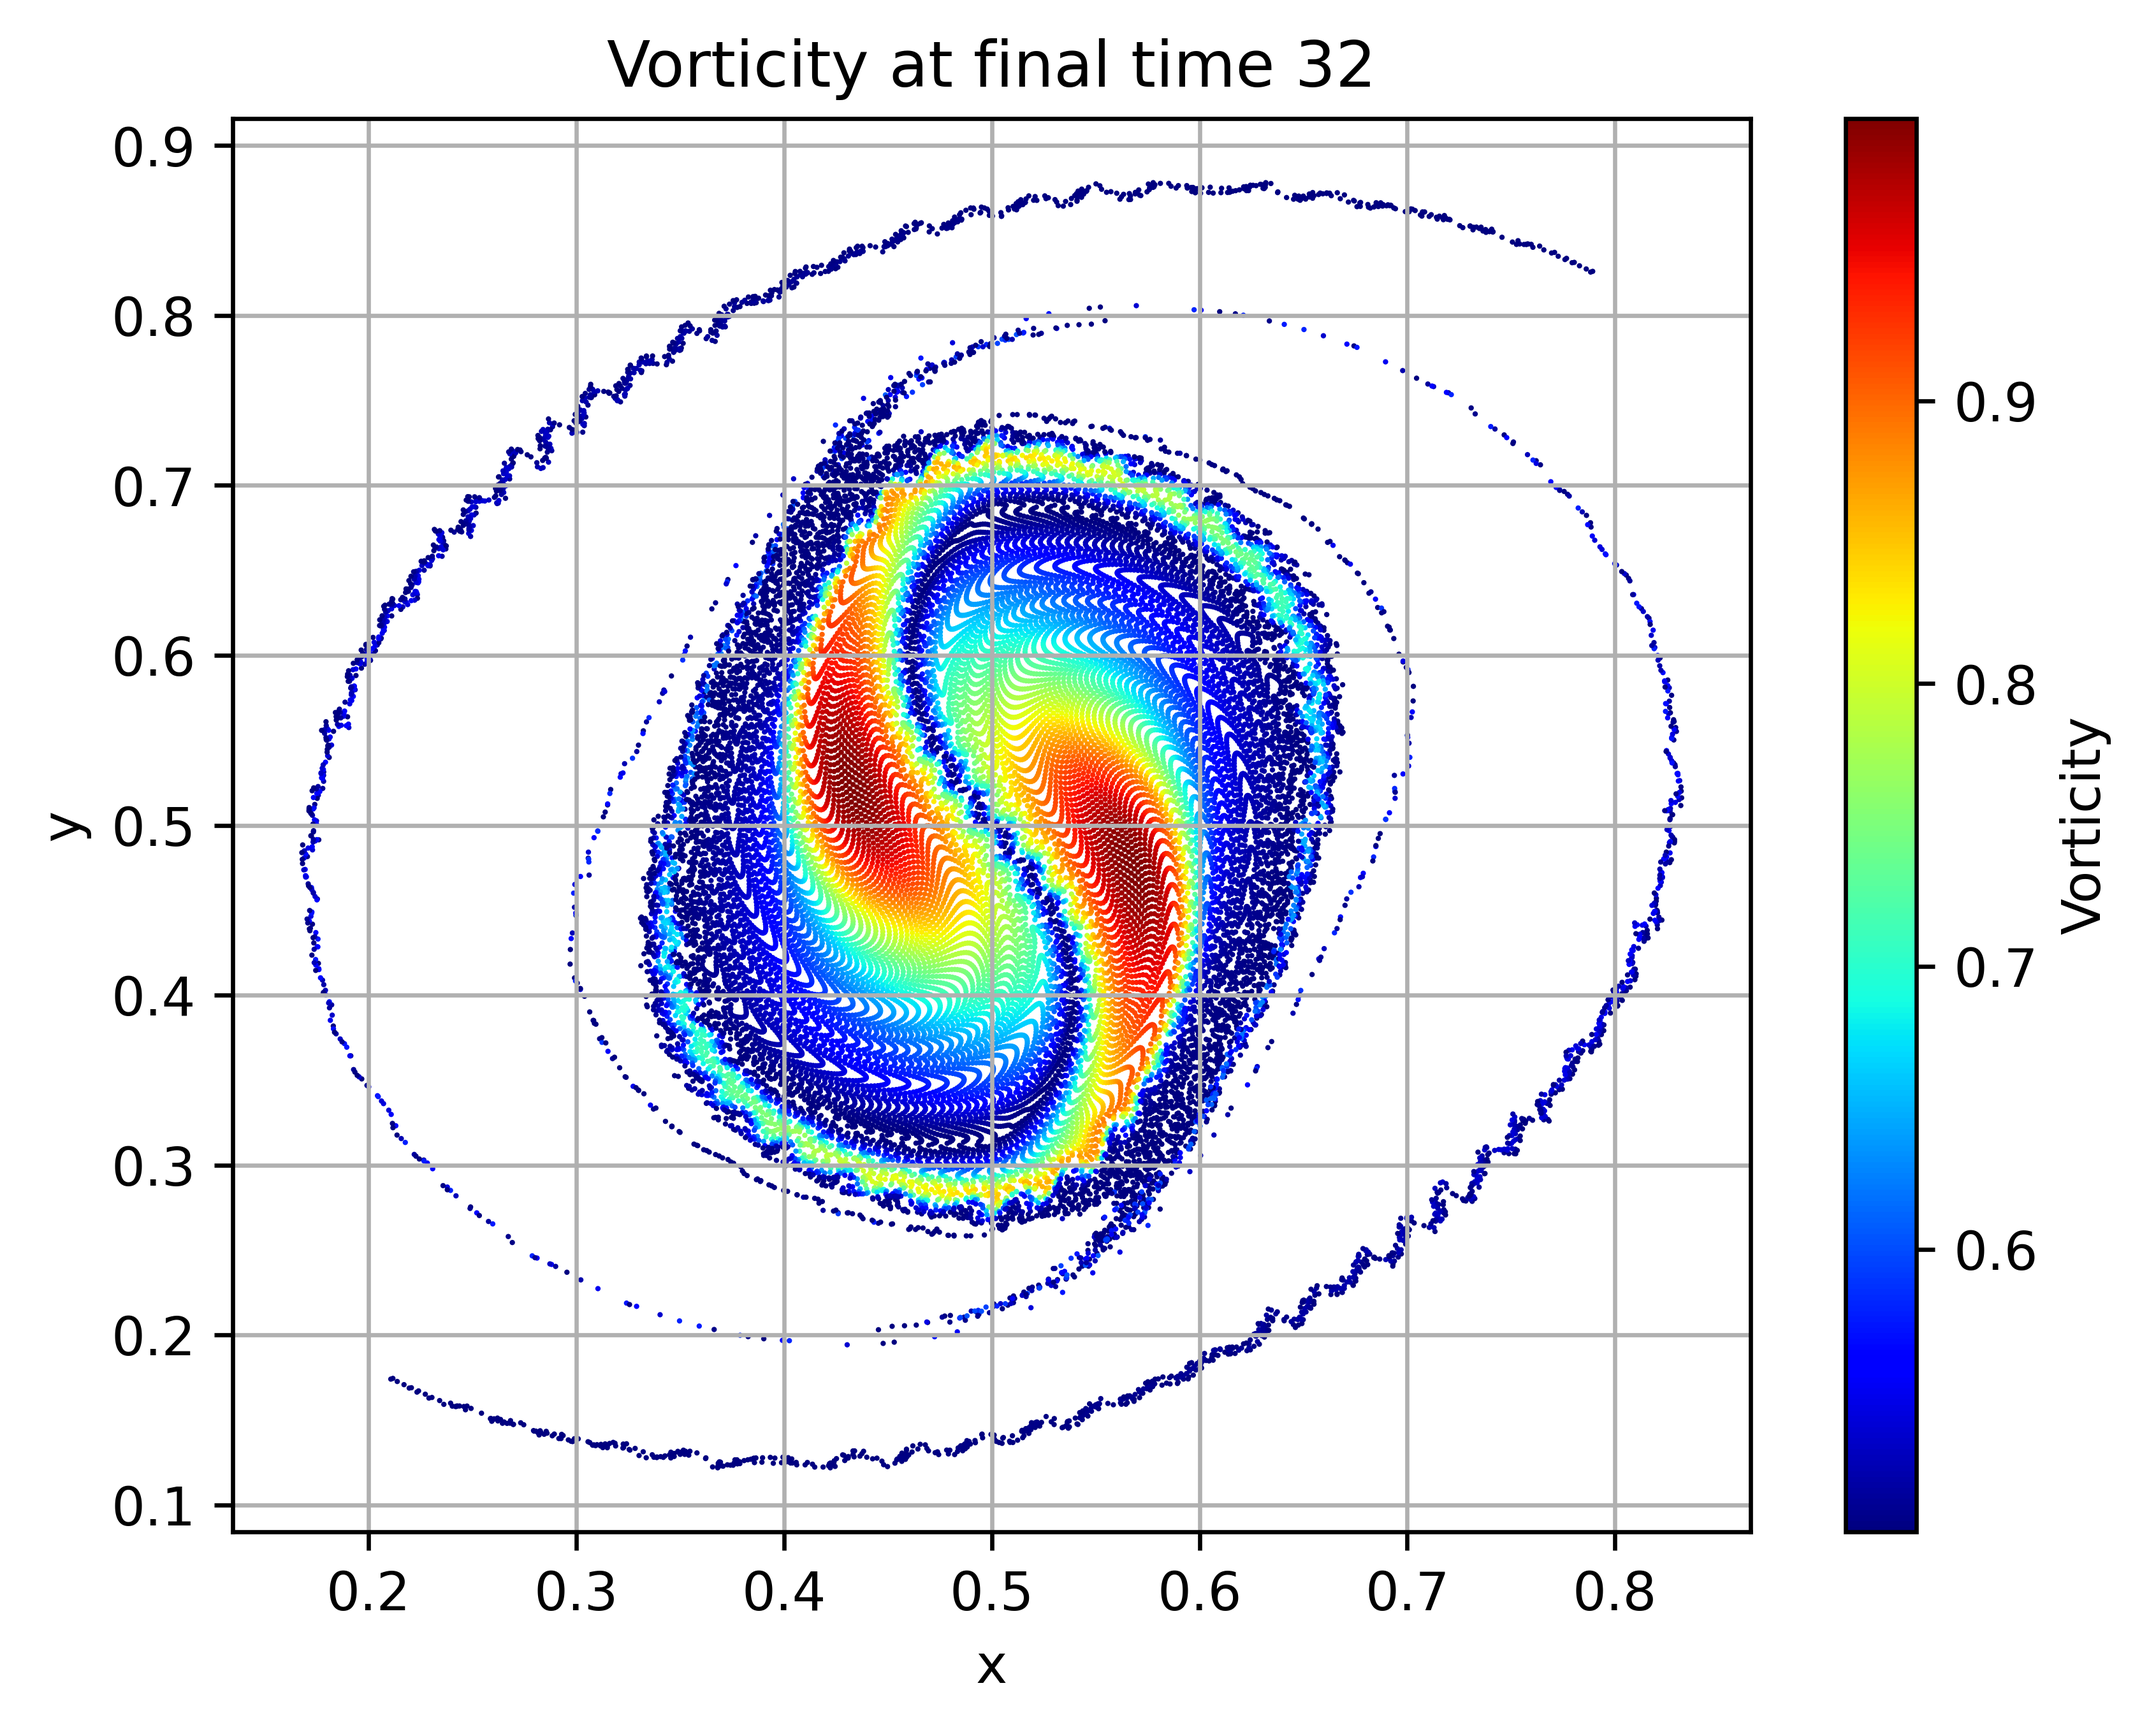
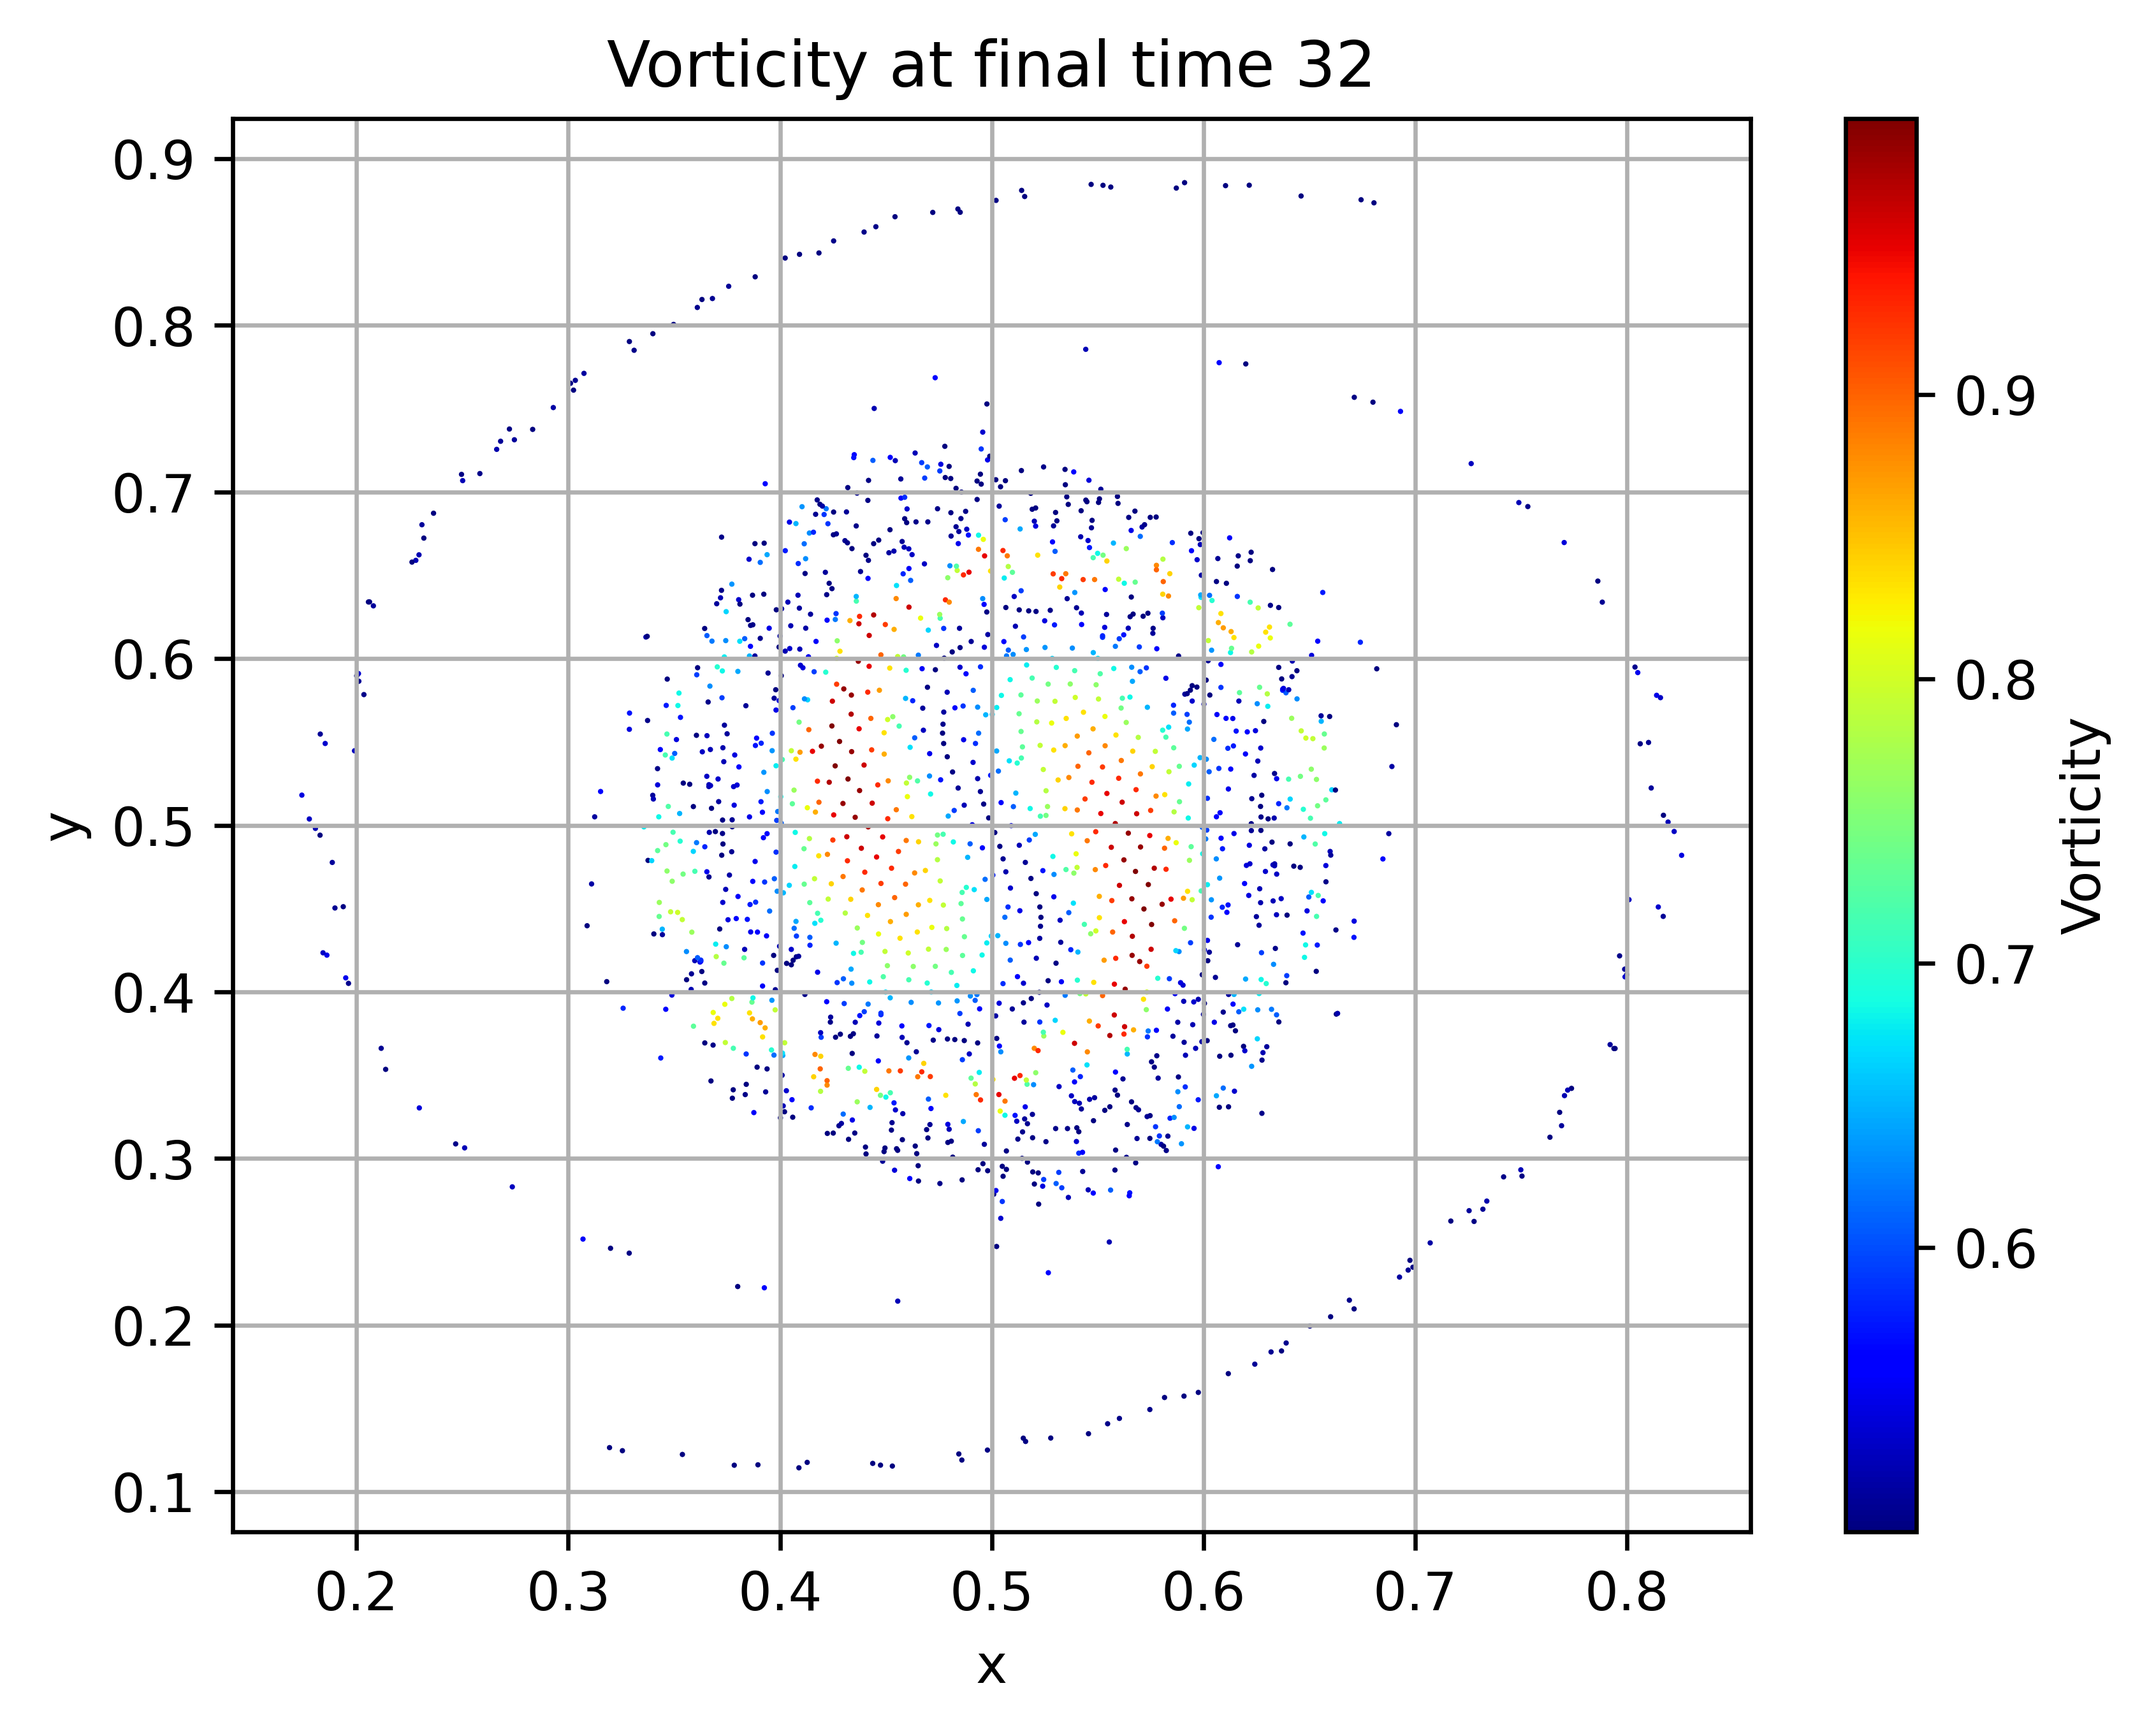
Update readme

diff --git a/Example/Example_0.py b/Example/Example_0.py
@@ -36,7 +36,7 @@ def main():
     dts = jnp.ones(nt) * dt
     print(f"We use $n_t = {nt}$ timesteps on the interval $t \in [0,{T}]$, with $\Delta t = {dt}$")
     xmin = 0.;xmax = 1.;ymin = 0.;ymax = 1. # same as the meshgrid for weather, but different number of points. 
-    NM = 512#256#64#128; 
+    NM = 128#512#256#64#128; 
     nx, ny, hdx, hdy, xc, yc, xxc, yyc = mesh_creation(NM,NM,xmin=xmin,xmax=xmax,ymin=ymin,ymax=ymax)
     delta =  1.5*hdx**0.75 #jnp.sqrt(h)  #delta = 1 / jnp.sqrt(32)  # sqrt h # krasney1986 a . ; something like that
     initial_vorticity = compact_vm2(xxc,yyc)#w_0(xxc,yyc)#w_0(xxc, yyc)# Beale_Madja_1985(xxc, yyc)#c_tpm(xxc,yyc)

diff --git a/README.md b/README.md
@@ -9,18 +9,19 @@
 
 # References 
 
-This code is a usable subset of the code developed for the paper,
+This code is a usable subset of the code developed for the paper:
 
+Stochastic fluids with transport noise: Approximating diffusion from data using SVD and ensemble forecast back-propagation
 ###https://arxiv.org/pdf/2405.00640
-
 @article{woodfield2024stochastic,
   title={Stochastic fluids with transport noise: Approximating diffusion from data using SVD and ensemble forecast back-propagation},
   author={Woodfield, James},
   journal={arXiv preprint arXiv:2405.00640},
   year={2024}
 }
+If you use this code or find it helpful please cite the above paper, and at least the additional references (Chorin, Madja + Bertozzi, Rüemelin).
 
-It solves inviscid vortex models, with/without stochastic noise. It is differentiable. Available under a MIT (free to use but dont sue me) Liscence.  
+It solves inviscid vortex models, with/without stochastic noise. It is differentiable. Available under a MIT Liscence.  
 
 # To run:
 Attain a copy of the code and run it e.g. : 
@@ -59,28 +60,10 @@ $$
 $$\boldsymbol{x}(\boldsymbol{X}, t)=\boldsymbol{x}(\boldsymbol{X}, 0)+\int_0^t \boldsymbol{u}(\boldsymbol{x}(\boldsymbol{X}, s), s) d s+\sum_{p=1}^P \int_0^t \theta_p \boldsymbol{\xi}_p(\boldsymbol{x}(\boldsymbol{X}, s)) \circ d B^p(s) +  \int_0^t \nu d W(s) ; \quad \boldsymbol{x}(\boldsymbol{X}, 0)=\boldsymbol{X}
 $$
 
-
 ### Numerical Approach:
-Let each point belong in a initial mesh $X_{i}\in \wedge_0$, 
 
-Each "point" vortex has strength $\Gamma_i$, denoted in this code by the i-th position of the vector carr.
-
-The point vortex anzats 
-$$
-\omega(x)=\sum_i \Gamma_i \delta (x-x_i),
-$$
-and the regularised Biot-Savart kernel of [7]
-$$
-\left(u^\delta(x, y), v^\delta(x, y)\right)^T=\sum_{i \in \wedge_0} \frac{\Gamma_i\left(-\left(y-y_i\right),\left(x-x_i\right)\right)^T}{2 \pi\left\|\boldsymbol{x}-\boldsymbol{x}_i\right\|_2^2}\left(1-L_p\left(\left\|\boldsymbol{x}-\boldsymbol{x}_i\right\|_2^2 / \delta^2\right) \exp \left(-\left\|\boldsymbol{x}-\boldsymbol{x}_i\right\|_2^2 / \delta^2\right)\right)
-$$
-closes the system as a finite-dimensional system,
-$$
- \boldsymbol{x}_{\boldsymbol{i}}(t)=\boldsymbol{x}_{\boldsymbol{i}}(0)+\int_0^t \boldsymbol{u}^\delta\left(\boldsymbol{x}_{\boldsymbol{i}}(s), s\right) d s+\sum_{p=1}^P \int_0^t \theta_p \boldsymbol{\xi}_p\left(\boldsymbol{x}_{\boldsymbol{i}}(s)\right) \circ d W_s^p, \quad \forall i \in \wedge_0 
-$$
-where $L_p$ is the p-th order Laguerre polynomial 
-
-
-This code is based upon: lecture notes provided by JOHN METHVEN in a summer school, and 
+### Code History: 
+This code is based upon: lecture notes and example code provided by JOHN METHVEN in a summer school. Then extended for different notions of integration for the paper: Lévy areas, Wong Zakai anomalies in diffusive limits of Deterministic Lagrangian Multi-Time Dynamics. Then extended into jax, for more points using a different temporal integrator. 
 
 
 # Kernel convergence in the deterministic setting,
@@ -98,9 +81,3 @@ To deal with the stochastic Stratonovich term, we discretise in time with the st
 [40] = W Rüemelin. Numerical treatment of stochastic differential equations. SIAM Journal on Numerical Analysis,
 19(3):604–613, 1982.
 
-
-
-The paper: 
-Lévy areas, Wong Zakai anomalies in diffusive limits of Deterministic Lagrangian Multi-Time Dynamics. 
-
-Studies some of the effects of higher order stochastic integration for point vortex systems. 
